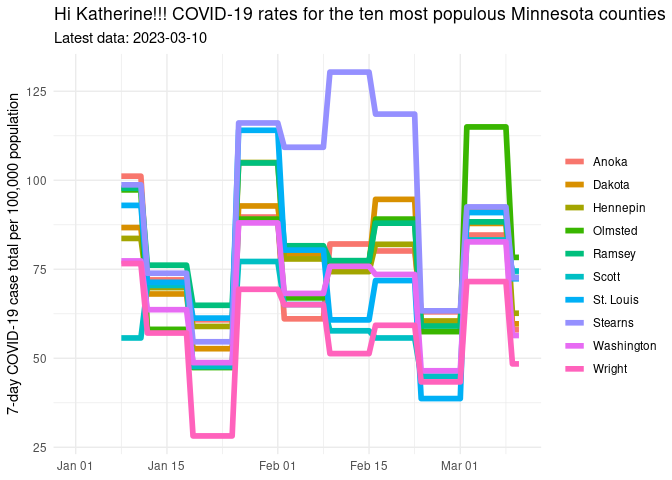
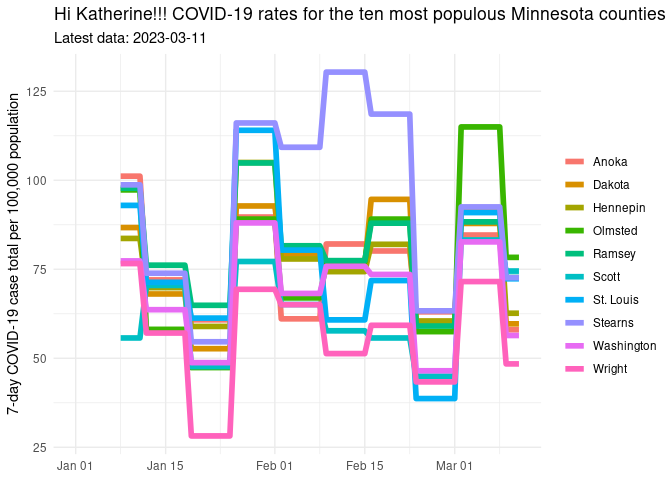
Updated report

diff --git a/README.md b/README.md
@@ -1,7 +1,7 @@
 Minnesota COVID Report
 ================
 
-Report last run: 2023-03-11 22:07:26
+Report last run: 2023-03-12 22:07:34
 
 ## Introduction
 
